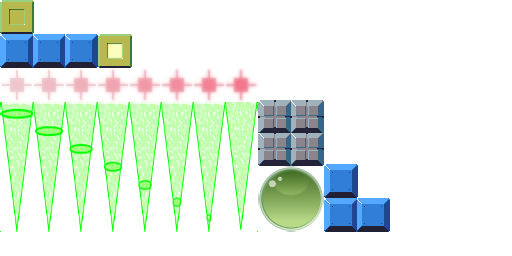
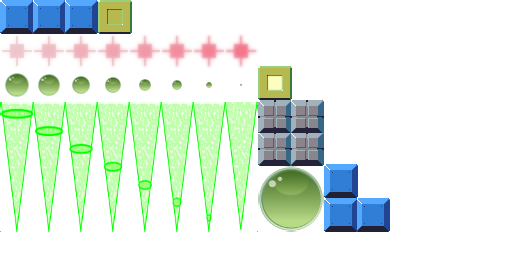
added falling death animation

Changed region(s): [[0.0, 0.0, 0.5938, 0.4062]]

diff --git a/CSC380GameProject/src/edu/oswego/tiltandtumble/worldObjects/Spike.java b/CSC380GameProject/src/edu/oswego/tiltandtumble/worldObjects/Spike.java
@@ -1,9 +1,6 @@
 package edu.oswego.tiltandtumble.worldObjects;
 
-import com.badlogic.gdx.Gdx;
-import com.badlogic.gdx.audio.Sound;
 import com.badlogic.gdx.graphics.g2d.SpriteBatch;
-import com.badlogic.gdx.math.Vector2;
 import com.badlogic.gdx.physics.box2d.Body;
 import com.badlogic.gdx.physics.box2d.BodyDef.BodyType;
 import com.badlogic.gdx.physics.box2d.Contact;
@@ -13,8 +10,8 @@ import edu.oswego.tiltandtumble.collisionListener.BallCollisionListener;
 import edu.oswego.tiltandtumble.levels.Level;
 import edu.oswego.tiltandtumble.worldObjects.graphics.GraphicComponent;
 
-public class Hole extends AbstractWorldObject implements BallCollisionListener,
-		Disposable, MapRenderable, Audible {
+public class Spike extends AbstractWorldObject implements
+		BallCollisionListener, Disposable, MapRenderable {
 	public static final BodyType BODY_TYPE = BodyType.StaticBody;
 	public static final boolean IS_SENSOR = false;
 
@@ -22,16 +19,10 @@ public class Hole extends AbstractWorldObject implements BallCollisionListener,
 	private final GraphicComponent graphic;
 	private boolean death = false;
 
-	private boolean playSound;
-	private final Sound sound;
-
-	public Hole(Body body, Level level, GraphicComponent graphic) {
+	public Spike(Body body, Level level, GraphicComponent graphic) {
 		super(body);
 		this.level = level;
 		this.graphic = graphic;
-
-		playSound = true;
-		sound = Gdx.audio.newSound(Gdx.files.internal("data/soundfx/cartoon-falling-whistle.ogg"));
 	}
 
 	@Override
@@ -39,15 +30,7 @@ public class Hole extends AbstractWorldObject implements BallCollisionListener,
 		contact.setEnabled(false);
 		level.fail();
 		ball.hide();
-		if (contact.getWorldManifold().getNumberOfContactPoints() > 0) {
-			Vector2[] points = contact.getWorldManifold().getPoints();
-			graphic.setPosition(
-					level.getScale().metersToPixels(points[0].x),
-					level.getScale().metersToPixels(points[0].y));
-		} else {
-			graphic.setPosition(ball.getMapX(), ball.getMapY());
-		}
-		playSound();
+		graphic.setPosition(ball.getMapX(), ball.getMapY());
 		graphic.start();
 		death = true;
 	}
@@ -57,26 +40,8 @@ public class Hole extends AbstractWorldObject implements BallCollisionListener,
 	}
 
 	@Override
-	public void setPlaySound(boolean value) {
-		playSound = value;
-	}
-
-	@Override
-	public void playSound() {
-		if (playSound) {
-			sound.play();
-		}
-	}
-
-	@Override
-	public void endSound() {
-		sound.stop();
-	}
-
-	@Override
 	public void dispose() {
 		graphic.dispose();
-		sound.dispose();
 	}
 
 	@Override

diff --git a/CSC380GameProject/src/edu/oswego/tiltandtumble/levels/WorldPopulator.java b/CSC380GameProject/src/edu/oswego/tiltandtumble/levels/WorldPopulator.java
@@ -42,6 +42,7 @@ import edu.oswego.tiltandtumble.worldObjects.Hole;
 import edu.oswego.tiltandtumble.worldObjects.MomentarySwitch;
 import edu.oswego.tiltandtumble.worldObjects.MovingWall;
 import edu.oswego.tiltandtumble.worldObjects.PushBumper;
+import edu.oswego.tiltandtumble.worldObjects.Spike;
 import edu.oswego.tiltandtumble.worldObjects.StaticWall;
 import edu.oswego.tiltandtumble.worldObjects.Switch;
 import edu.oswego.tiltandtumble.worldObjects.Teleporter;
@@ -93,6 +94,8 @@ public final class WorldPopulator implements Disposable {
 					level.addWorldObject(createPushBumper(obj, world, scale));
 				} else if (obj.getName().equals("FinishLine")) {
 					level.addWorldObject(createFinishLine(obj, level, world, scale));
+				} else if (obj.getName().equals("Spike")) {
+					level.addWorldObject(createSpike(obj, level, world, scale));
 				} else if (obj.getName().equals("Hole")) {
 					level.addWorldObject(createHole(obj, level, world, scale));
 				} else if (obj.getName().equals("Teleporter")) {
@@ -501,7 +504,27 @@ public final class WorldPopulator implements Disposable {
 		// dispose after creating fixture
 		shape.dispose();
 
-		return new Hole(body, level);
+		TextureRegion sheet = atlas.findRegion("ballfall");
+		GraphicComponent graphic = new AnimationGraphic.Builder(sheet, 1, 8, 1)
+				.position(scale.metersToPixels(body.getPosition().x),
+						scale.metersToPixels(body.getPosition().y))
+				.origin(16, 16)
+				.build();
+
+		return new Hole(body, level, graphic);
+	}
+
+	public Spike createSpike(MapObject obj, Level level, World world,
+			UnitScale scale) {
+		Body body = world.createBody(bodyDef.reset().type(Spike.BODY_TYPE)
+				.build());
+		Shape shape = createShape(obj, scale, body);
+		body.createFixture(fixtureDef.reset().shape(shape).build());
+
+		// dispose after creating fixture
+		shape.dispose();
+
+		return new Spike(body, level, new NullGraphic());
 	}
 
 	public AttractorForce createAttractorForce(MapObject obj, Level level,

diff --git a/CSC380GameProject/src/edu/oswego/tiltandtumble/levels/Level.java b/CSC380GameProject/src/edu/oswego/tiltandtumble/levels/Level.java
@@ -147,12 +147,16 @@ public class Level implements Disposable, Audible {
 		return currentState == State.STARTED;
 	}
 
-	public void finish() {
-		finish(false);
+	public void win() {
+		currentState.end(this, false);
 	}
 
-	public void finish(boolean fail) {
-		currentState.finish(this, fail);
+	public void fail() {
+		currentState.end(this, true);
+	}
+
+	public void exit() {
+		currentState.finish(this);
 	}
 
 	public boolean isFailed() {
@@ -263,20 +267,21 @@ public class Level implements Disposable, Audible {
     		}
 
     		@Override
-    		public void finish(Level l, boolean fail) {
+    		public void end(Level l, boolean fail) {
     			l.failed = fail;
     			l.updateScore();
-    			l.changeState(FINISHED);
+    			l.changeState(ENDING);
     			for (Audible a : l.audibleObjects) {
     				a.endSound();
     			}
-    			l.playSound();
     		}
 
     		@Override
     		public void update(Level l, float delta) {
     			if (l.isBallOutsideLevel()) {
-    				finish(l, true);
+    				l.fail();
+    				l.exit();
+    				return;
     			}
     			l.ballController.update(delta);
     			for (WorldUpdateable w : l.updateableObjects) {
@@ -296,12 +301,20 @@ public class Level implements Disposable, Audible {
     			l.changeState(STARTED);
     		}
         },
+        ENDING {
+    		@Override
+			public void finish(Level l) {
+    			l.changeState(FINISHED);
+    			l.playSound();
+    		}
+        },
         FINISHED;
 
         public void start(Level l) {}
 		public void pause(Level l) {}
 		public void resume(Level l) {}
-		public void finish(Level l, boolean fail) {}
+		public void end(Level l, boolean fail) {}
+		public void finish(Level l) {}
 		public void update(Level l, float delta) {}
     };
 }

diff --git a/CSC380GameProject/src/edu/oswego/tiltandtumble/worldObjects/Ball.java b/CSC380GameProject/src/edu/oswego/tiltandtumble/worldObjects/Ball.java
@@ -19,6 +19,7 @@ public class Ball extends AbstractWorldObject implements Disposable, Audible {
 	public static final float LINEAR_DAMPENING = 0.1f;
 
 	private final GraphicComponent graphic;
+	private boolean visible = true;
 
 	private final UnitScale scale;
 	private boolean playSound;
@@ -40,8 +41,10 @@ public class Ball extends AbstractWorldObject implements Disposable, Audible {
 	}
 
 	public void draw(float delta, SpriteBatch batch) {
-		graphic.setPosition(getMapX(), getMapY());
-		graphic.draw(delta, batch);
+		if (visible) {
+			graphic.setPosition(getMapX(), getMapY());
+			graphic.draw(delta, batch);
+		}
 	}
 
 	public float getRadius() {
@@ -55,6 +58,14 @@ public class Ball extends AbstractWorldObject implements Disposable, Audible {
 
 	public float getMapY() {
 		return scale.metersToPixels(body.getPosition().y);
+	}
+
+	public void hide() {
+		visible = false;
+	}
+
+	public void show() {
+		visible = true;
 	}
 
 	@Override

diff --git a/CSC380GameProject/src/edu/oswego/tiltandtumble/worldObjects/StaticWall.java b/CSC380GameProject/src/edu/oswego/tiltandtumble/worldObjects/StaticWall.java
@@ -42,7 +42,8 @@ public class StaticWall extends AbstractWorldObject implements WorldUpdateable,
 		if (collidingWithBall) {
 			if (body.getFixtureList().get(0).testPoint(ball.getBody().getPosition())) {
 				Gdx.app.log("StaticWall", "Wall SMASH Ball!");
-				level.finish(true);
+				level.fail();
+				level.exit();
 			}
 		}
 	}

diff --git a/CSC380GameProject/src/edu/oswego/tiltandtumble/worldObjects/FinishLine.java b/CSC380GameProject/src/edu/oswego/tiltandtumble/worldObjects/FinishLine.java
@@ -28,7 +28,8 @@ public class FinishLine extends AbstractWorldObject implements BallCollisionList
 	@Override
 	public void handleBeginCollision(Contact contact, Ball ball) {
         Gdx.app.log("FinishLine", "Ball enter");
-        level.finish();
+        level.win();
+        level.exit();
 	}
 
 	@Override

diff --git a/CSC380GameProject/src/edu/oswego/tiltandtumble/worldObjects/MovingWall.java b/CSC380GameProject/src/edu/oswego/tiltandtumble/worldObjects/MovingWall.java
@@ -62,7 +62,8 @@ public class MovingWall extends AbstractWorldObject
 		if (collidingWithBall) {
 			if (body.getFixtureList().get(0).testPoint(ball.getBody().getPosition())) {
 				Gdx.app.log("MovingWall", "Wall SMASH Ball!");
-				level.finish(true);
+				level.fail();
+				level.exit();
 			}
 		}
 	}

diff --git a/CSC380GameProject/src/edu/oswego/tiltandtumble/worldObjects/graphics/GraphicComponent.java b/CSC380GameProject/src/edu/oswego/tiltandtumble/worldObjects/graphics/GraphicComponent.java
@@ -9,4 +9,5 @@ public interface GraphicComponent extends Disposable {
 	public void setRotation(float degrees);
 	public void setSize(float width, float height);
 	public void draw(float delta, SpriteBatch batch);
+	public boolean isFinished();
 }

diff --git a/CSC380GameProject/src/edu/oswego/tiltandtumble/worldObjects/graphics/AnimationGraphic.java b/CSC380GameProject/src/edu/oswego/tiltandtumble/worldObjects/graphics/AnimationGraphic.java
@@ -145,4 +145,9 @@ public class AnimationGraphic implements GraphicComponent {
 
 	@Override
 	public void dispose() { }
+
+	@Override
+	public boolean isFinished() {
+		return ani.isAnimationFinished(aniTime);
+	}
 }

diff --git a/CSC380GameProject/src/edu/oswego/tiltandtumble/worldObjects/graphics/ParticleEffectGraphic.java b/CSC380GameProject/src/edu/oswego/tiltandtumble/worldObjects/graphics/ParticleEffectGraphic.java
@@ -43,4 +43,9 @@ public class ParticleEffectGraphic implements GraphicComponent {
 	public void dispose() {
 		effect.dispose();
 	}
+
+	@Override
+	public boolean isFinished() {
+		return effect.isComplete();
+	}
 }

diff --git a/CSC380GameProject/src/edu/oswego/tiltandtumble/worldObjects/graphics/NullGraphic.java b/CSC380GameProject/src/edu/oswego/tiltandtumble/worldObjects/graphics/NullGraphic.java
@@ -25,4 +25,7 @@ public class NullGraphic implements GraphicComponent {
 
 	@Override
 	public void setSize(float width, float height) { }
+
+	@Override
+	public boolean isFinished() { return true; }
 }

diff --git a/CSC380GameProject/src/edu/oswego/tiltandtumble/worldObjects/graphics/SpriteGraphic.java b/CSC380GameProject/src/edu/oswego/tiltandtumble/worldObjects/graphics/SpriteGraphic.java
@@ -35,4 +35,9 @@ public class SpriteGraphic implements GraphicComponent {
 
 	@Override
 	public void dispose() { }
+
+	@Override
+	public boolean isFinished() {
+		return true;
+	}
 }
